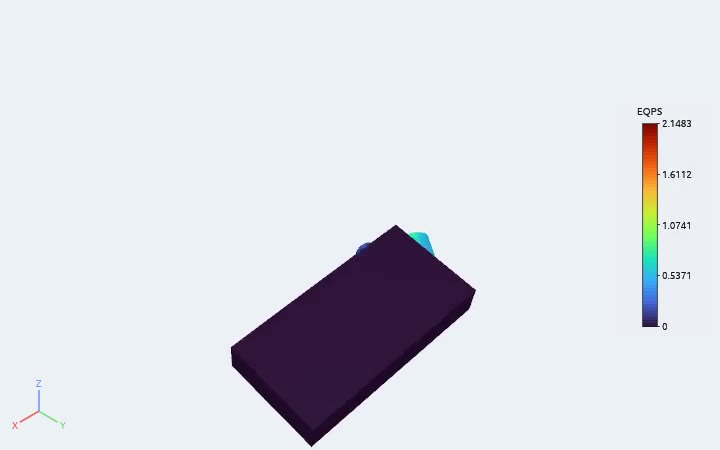
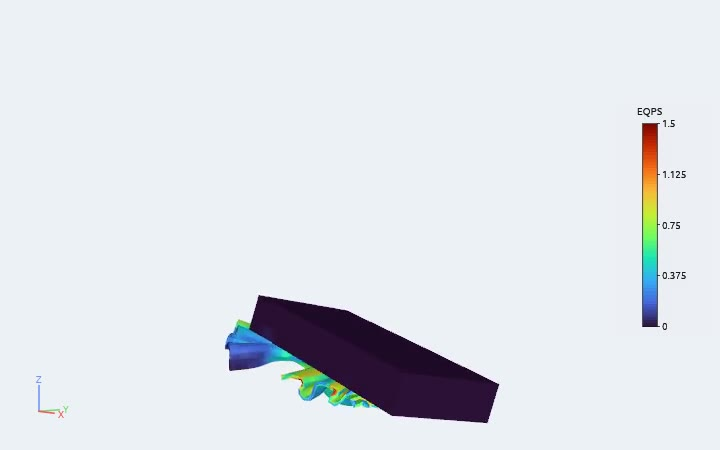
Project page: the can crush seen from the side, fixed EQPS range, camera fitted at a middle step.

diff --git a/scripts/site/media/can_crash.py b/scripts/site/media/can_crash.py
@@ -2,7 +2,11 @@
 # colored by the equivalent plastic strain, the time steps played once.
 import aurafx as afx
 c = afx.load(ROOT + "/testdata/can.ex2")
-c.set(color_by="EQPS", cmap="Turbo")
-afx.view("iso"); afx.reset_camera()
+# A fixed color range over all steps (the last step reaches about 1.8), seen from the side so
+# the can under the plate stays in view as it crumples.
+c.set(color_by="EQPS", cmap="Turbo", range=(0.0, 1.5))
 n = afx.time()[1]
+# Fit the camera at a middle step so both the falling plate and the crushed can stay in frame.
+afx.time(n // 2)
+afx.view([1.0, -0.75, 0.12], up=[0, 0, 1]); afx.reset_camera()
 afx.save_animation(OUT, fps=14, frames=n, width=720, height=450, cue=lambda t: afx.time(round(t * (n - 1))))
